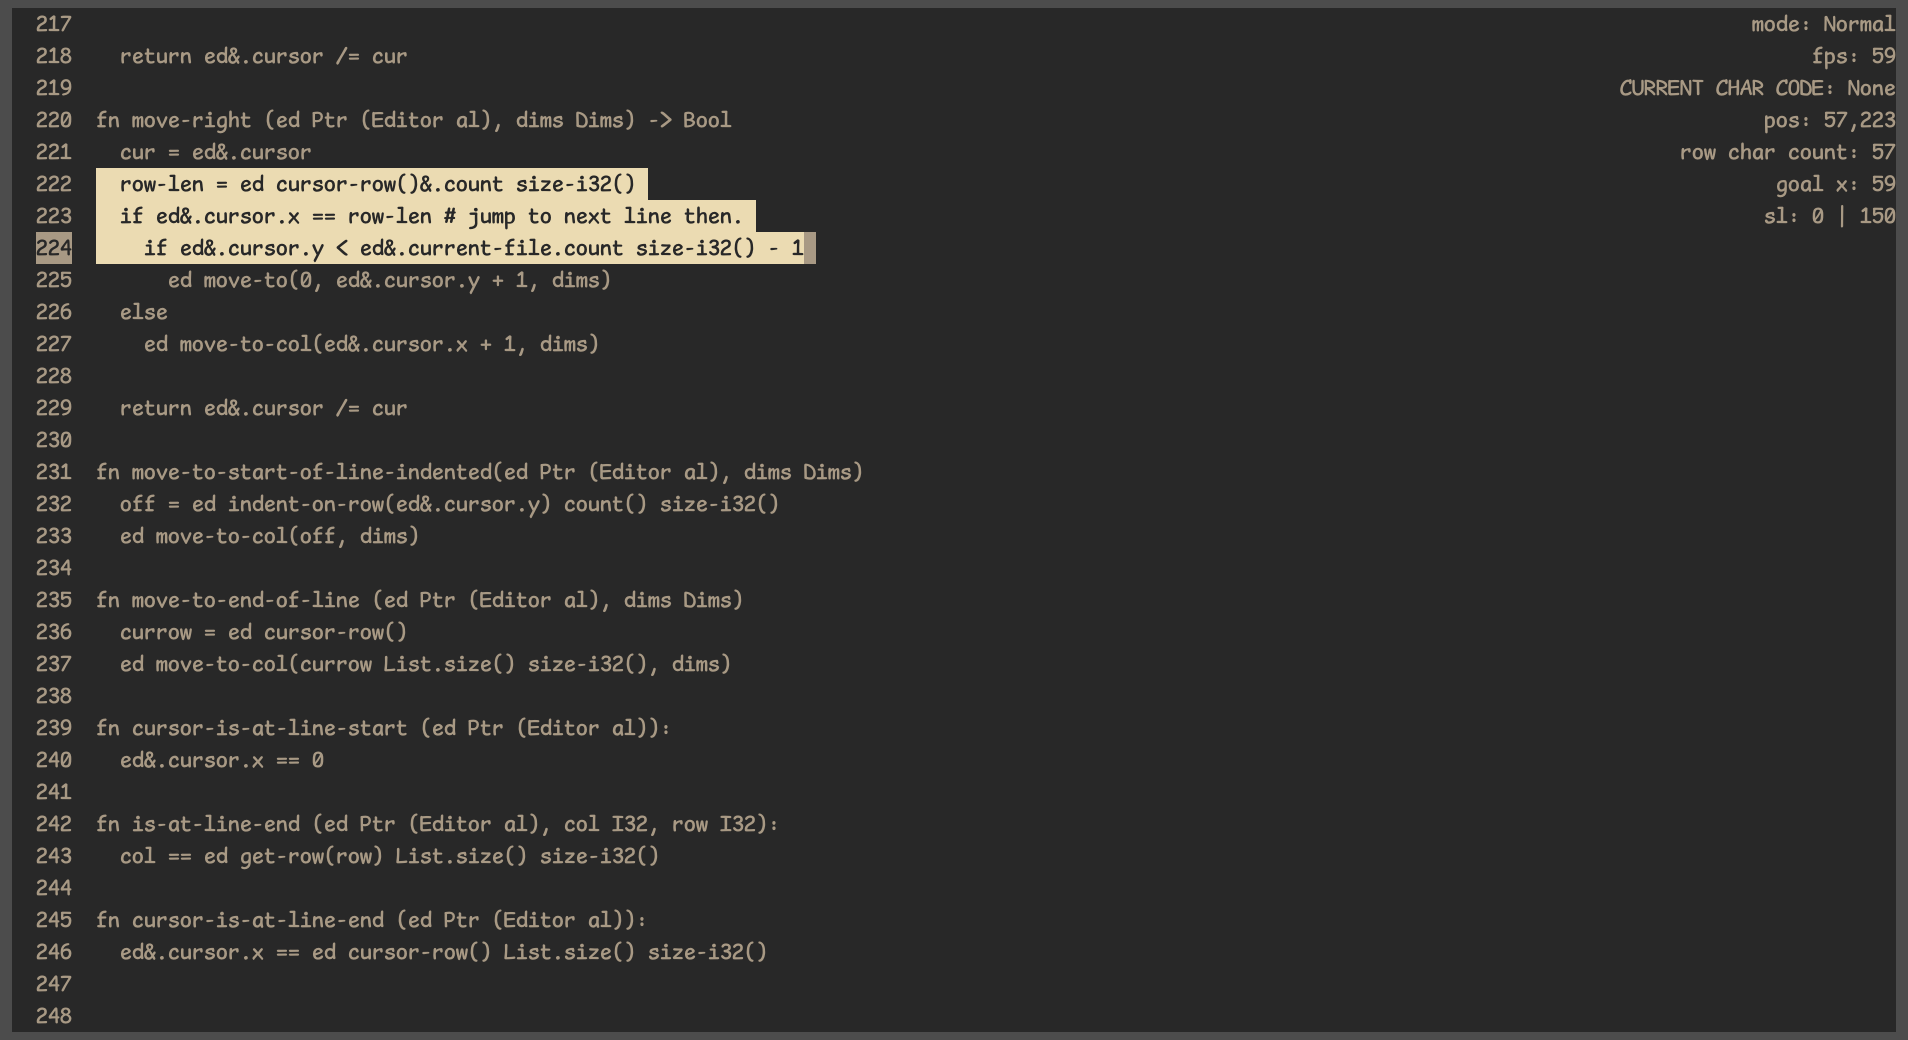
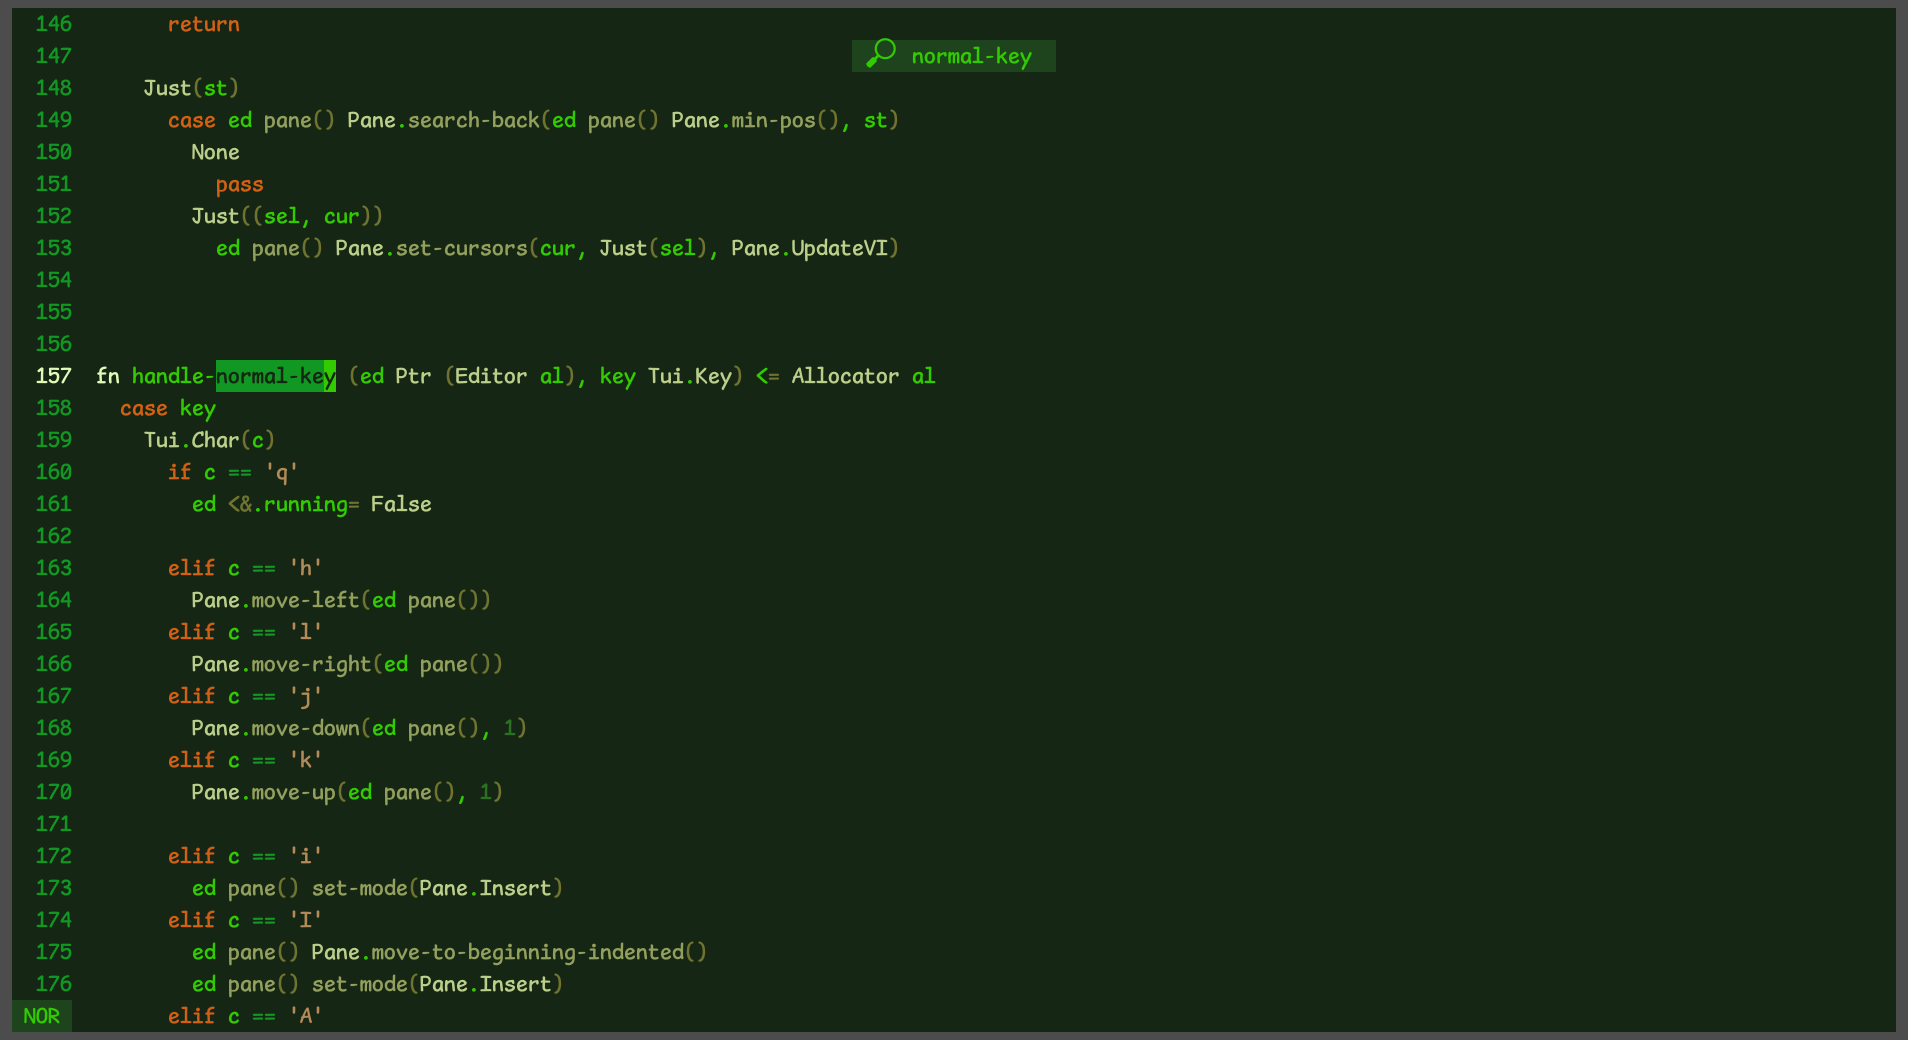
update readme, add new screenshot

Changed region(s): [[0.0, 0.0, 0.5566, 1.0], [0.8349, 0.0, 1.0, 0.2154]]

diff --git a/README.md b/README.md
@@ -29,7 +29,7 @@ my attempt at an editor written in [kc](https://github.com/bingis-khan/kkc). att
 - [x] undo/redo
 - [x] undo/redo typed characters as full words.
 - [ ] `g` and `<space>` submenu
-- [ ] themes
+- [x] themes
 - [x] editor messages (send message Str -> () which allocates and frees n stuff)
 - [ ] proper cursor position and `before-cursors` position for commenting out, moving, `oO` newlines
 - ...